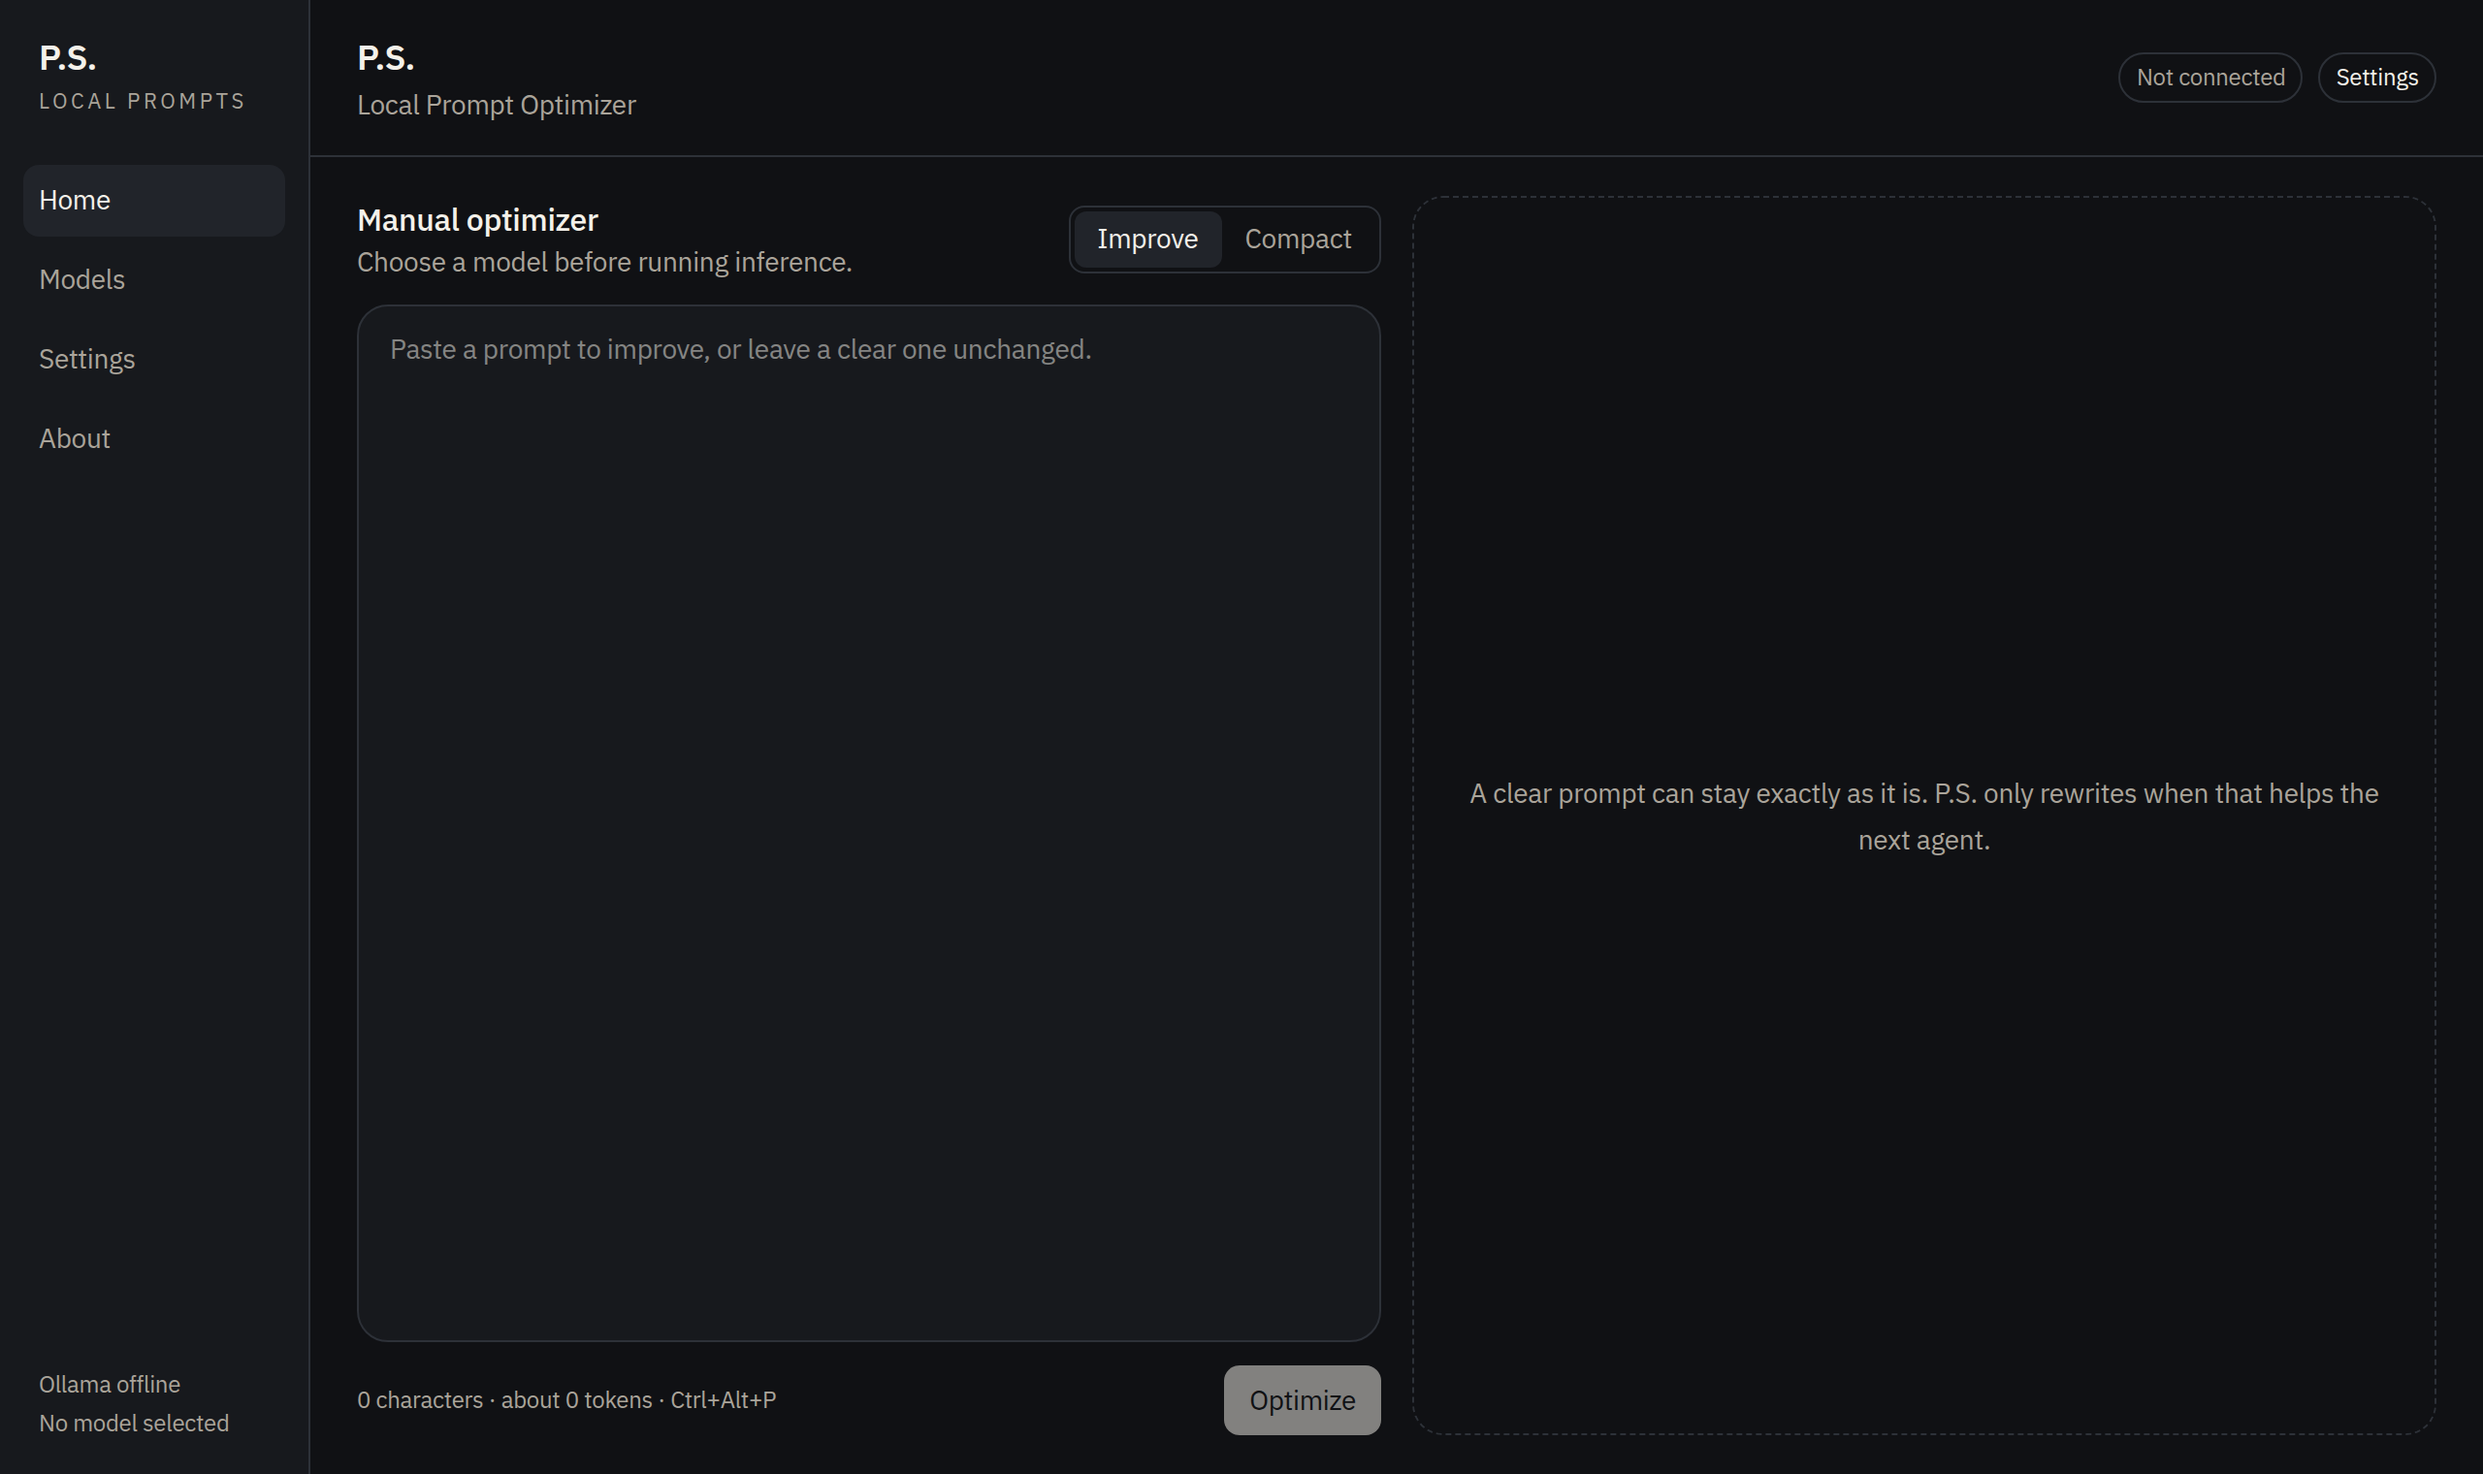
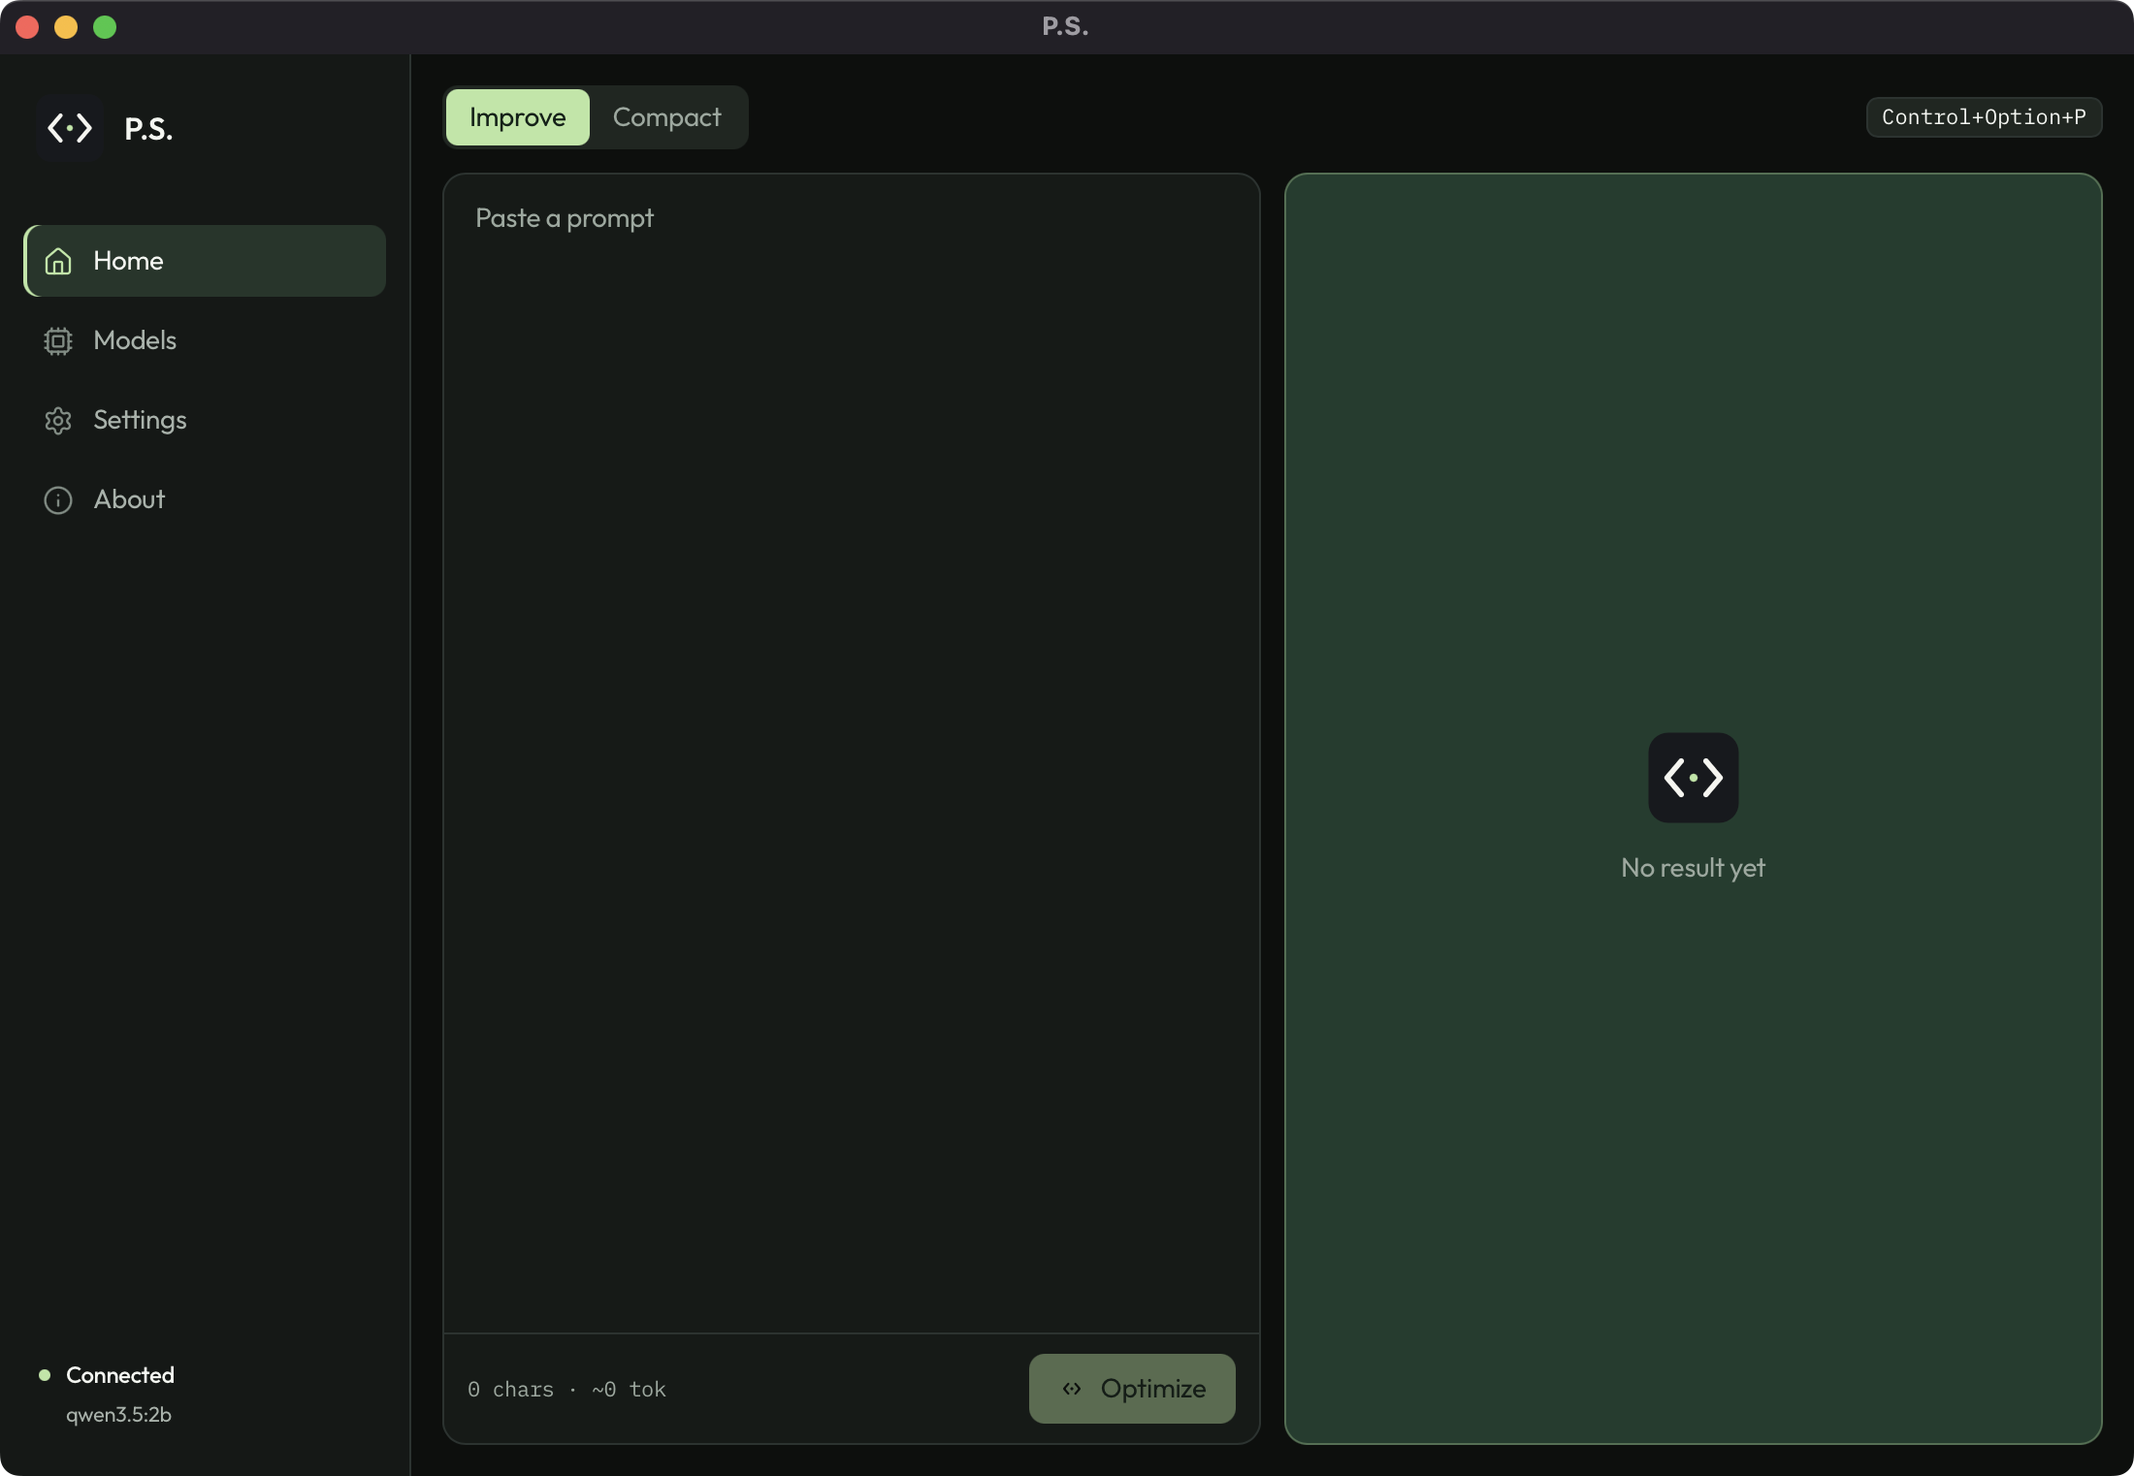
docs: show the new window and make the installer files easy to find
The Mac disk image and the Windows setup exe were easy to miss in the install steps.

diff --git a/README.md b/README.md
@@ -81,7 +81,11 @@ Have [Ollama](https://ollama.com/download) running on this computer before the f
 npm run installer:mac
 ```
 
-The command builds a disk image and opens it. Copy **PS** into Applications yourself:
+Open this disk image. The command opens it when the build finishes.
+
+```text
+target/aarch64-apple-darwin/release/bundle/dmg/PS_0.1.0_aarch64.dmg
+```
 
 1. Drag **PS** from the disk image to **Applications**.
 2. Eject the disk image, then open **PS** from Applications.
@@ -101,7 +105,13 @@ Improve is Control+Option+P. Compact is Control+Option+Shift+P. Highlight text i
 npm run installer:win
 ```
 
-Run `target/x86_64-pc-windows-msvc/release/bundle/nsis/PS_0.1.0_x64-setup.exe`. The installer adds **PS** to the Start menu for the current user. Open **PS** from the Start menu.
+Run this installer:
+
+```text
+target/x86_64-pc-windows-msvc/release/bundle/nsis/PS_0.1.0_x64-setup.exe
+```
+
+The installer adds **PS** to the Start menu for the current user. Open **PS** from the Start menu.
 
 This build is unsigned. If SmartScreen says Windows protected your PC, choose More info, then Run anyway. Windows does not ask for a separate Accessibility permission.
 
@@ -121,7 +131,7 @@ Install [Ollama](https://ollama.com/download) and leave it running on this compu
 
 The only accepted addresses are loopback. The default is `http://127.0.0.1:11434`. `localhost` and `::1` are accepted. A public host, a path, or a username in the URL is rejected.
 
-![Model manager with Fast, Balanced, and Quality suggestions](docs/images/models.png)
+![Models page, with installed models and the Fast, Balanced, and Quality presets](docs/images/models.png)
 
 The suggestions are starting points, not a ranking. Download size is the registry file. The runtime budget is a conservative reserve used to phrase the suggestion, and it is larger than the download.
 
